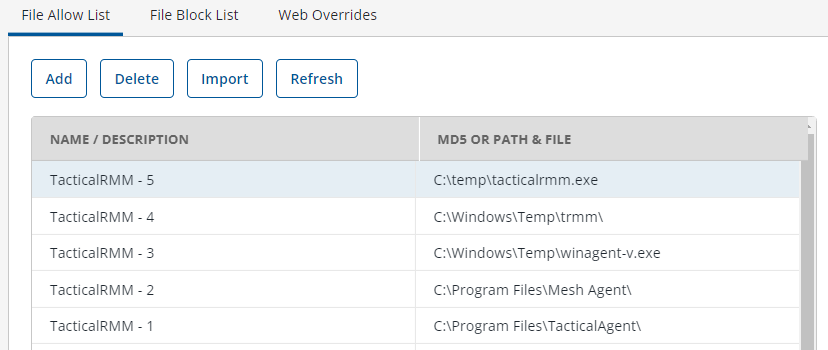
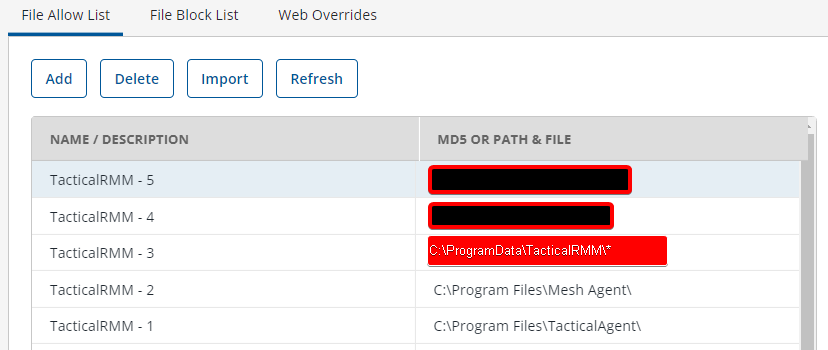
updating paths on av

Changed region(s): [[0.5133, 0.4571, 0.8152, 0.7714]]

diff --git a/docs/av.md b/docs/av.md
@@ -38,8 +38,6 @@ Admin URL:
 
 ![Web Exclusions](images/avwebroot4.png)
 
-![Web Exclusions](images/avwebroot3.png)
-
 ![Web Exclusions](images/avwebroot2.png)
 
 ![Web Exclusions](images/avwebroot1.png)
@@ -56,11 +54,7 @@ Go To **Global Settings > General > Global Exclusions > Add Exclusion**
 
 ![Agent Exclusions](images/sophoscascreen3.png)
 
-![Agent Exclusions](images/sophoscascreen4.png)
-
 ![Agent Exclusions](images/sophoscascreen5.png)
-
-![Agent Exclusions](images/sophoscascreen6.png)
 
 ![Agent Exclusions](images/sophoscascreen7.png)
 
